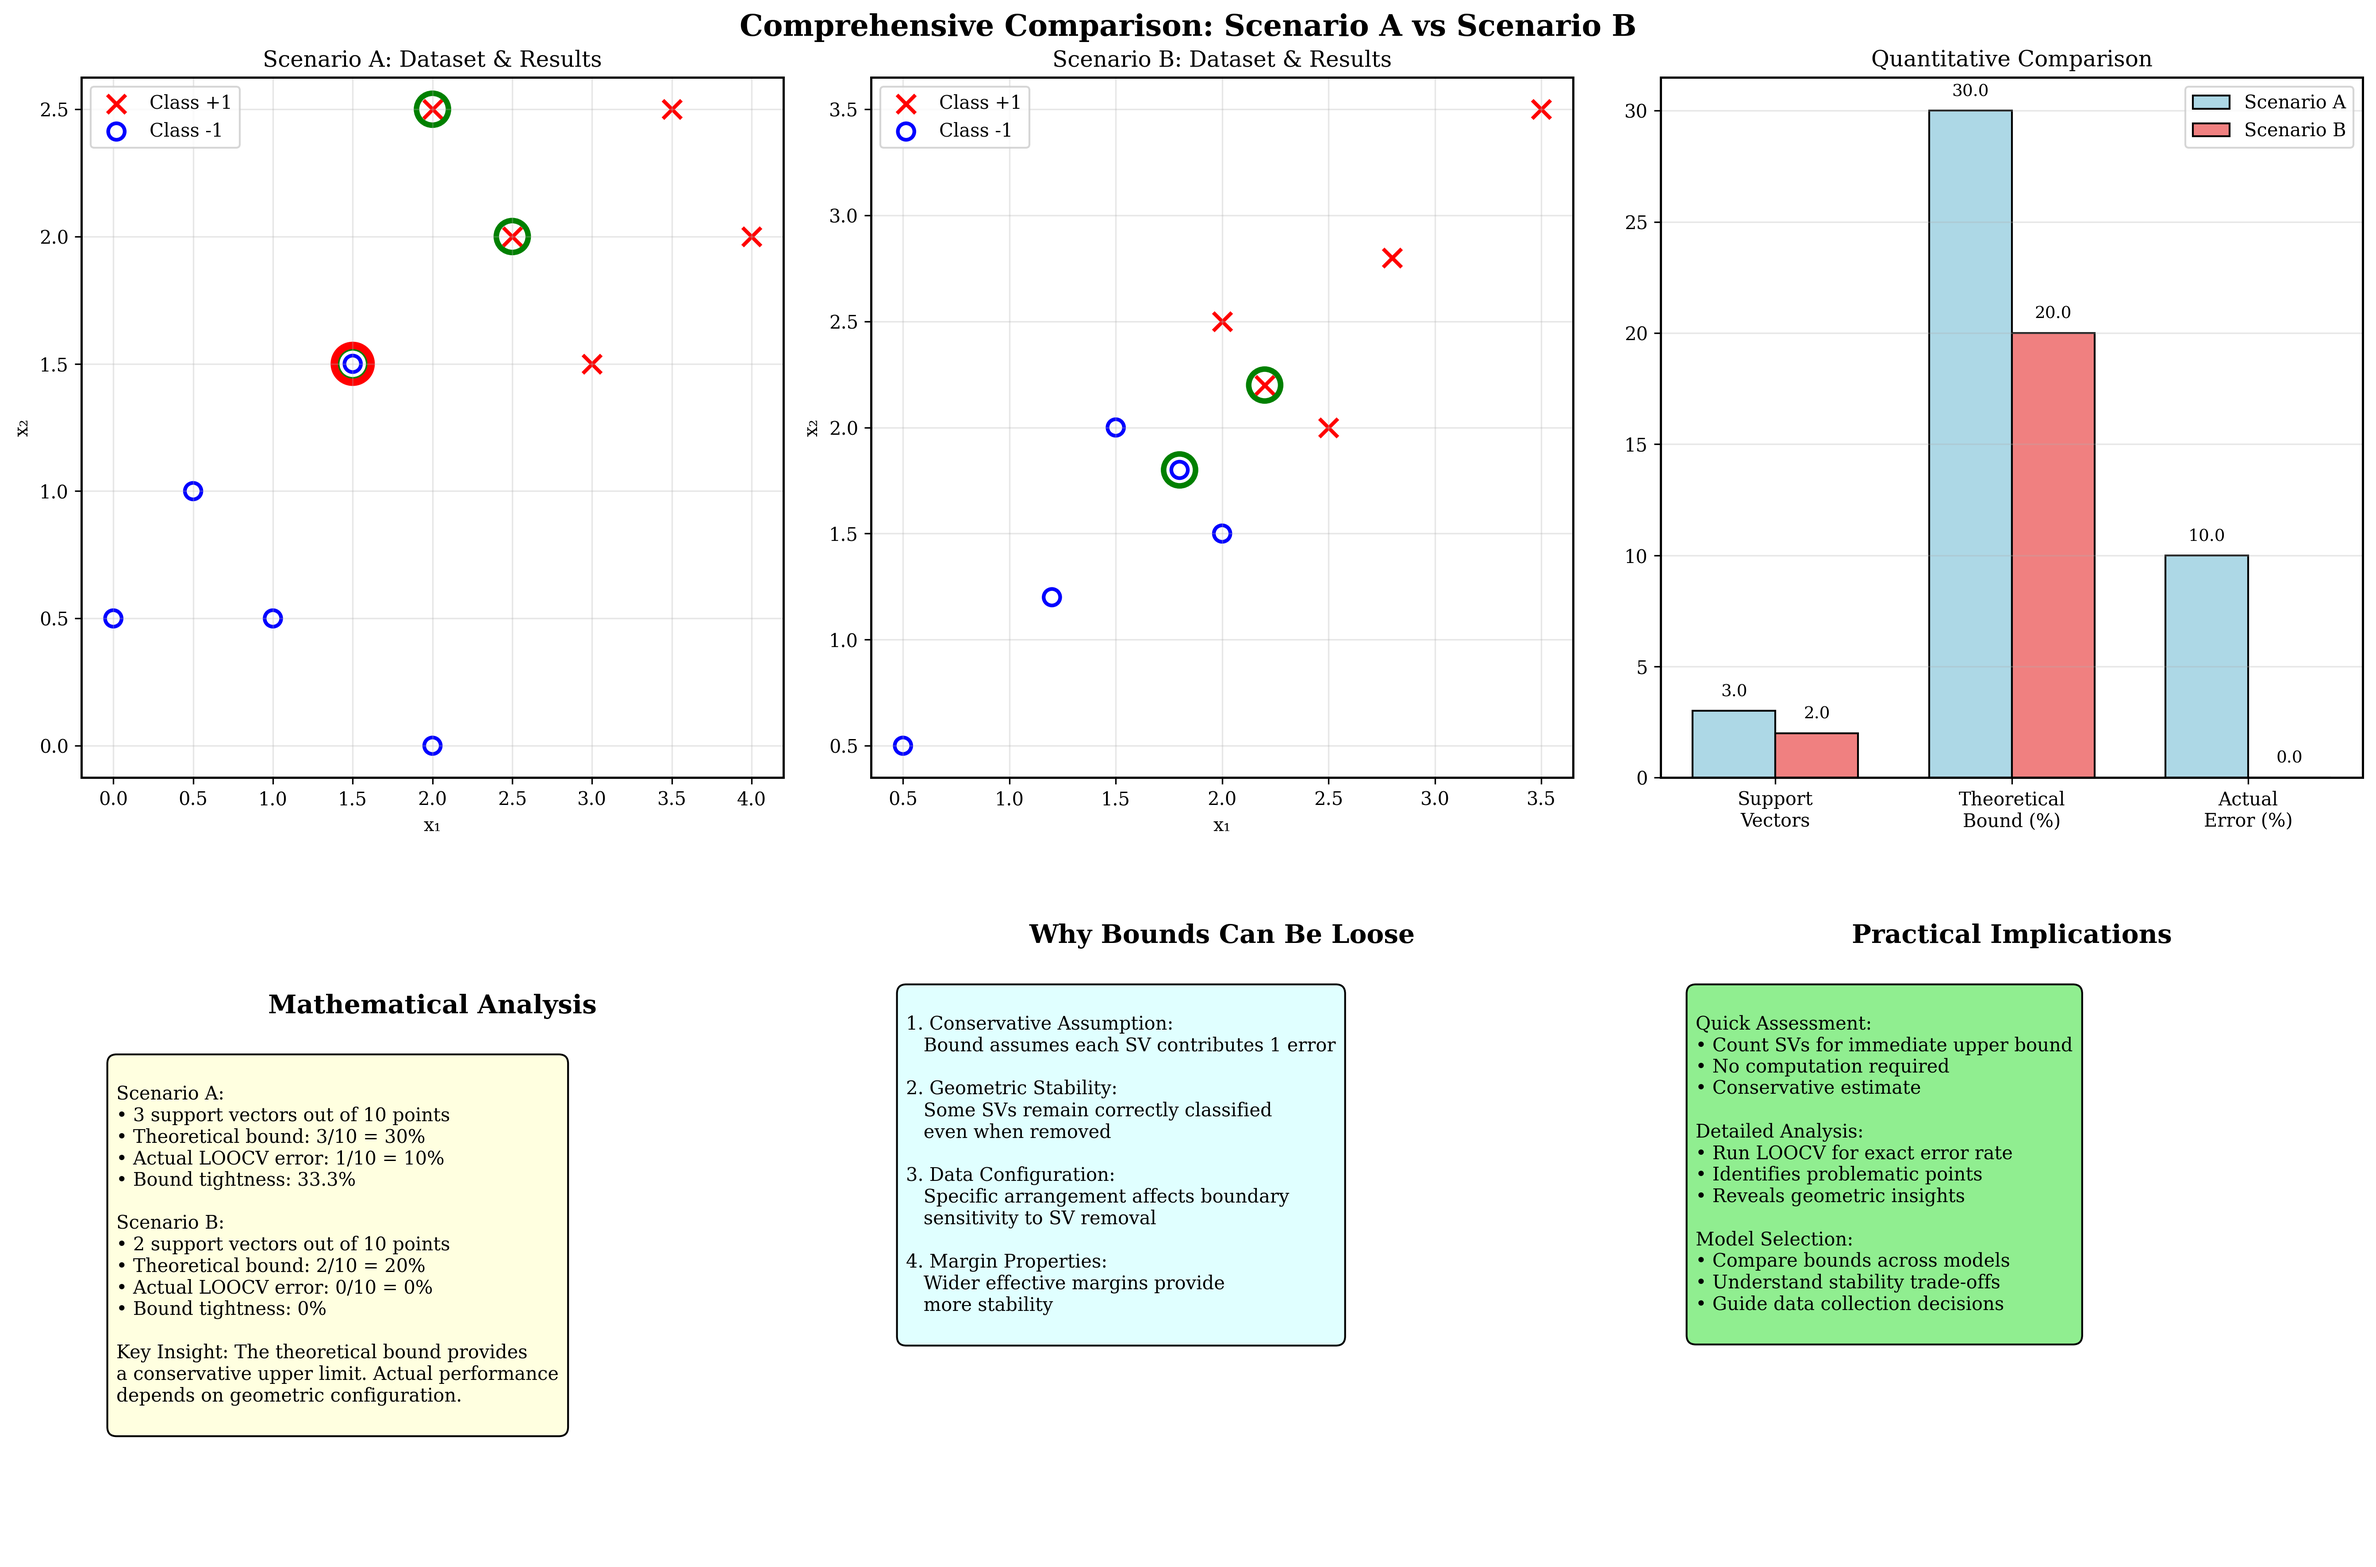
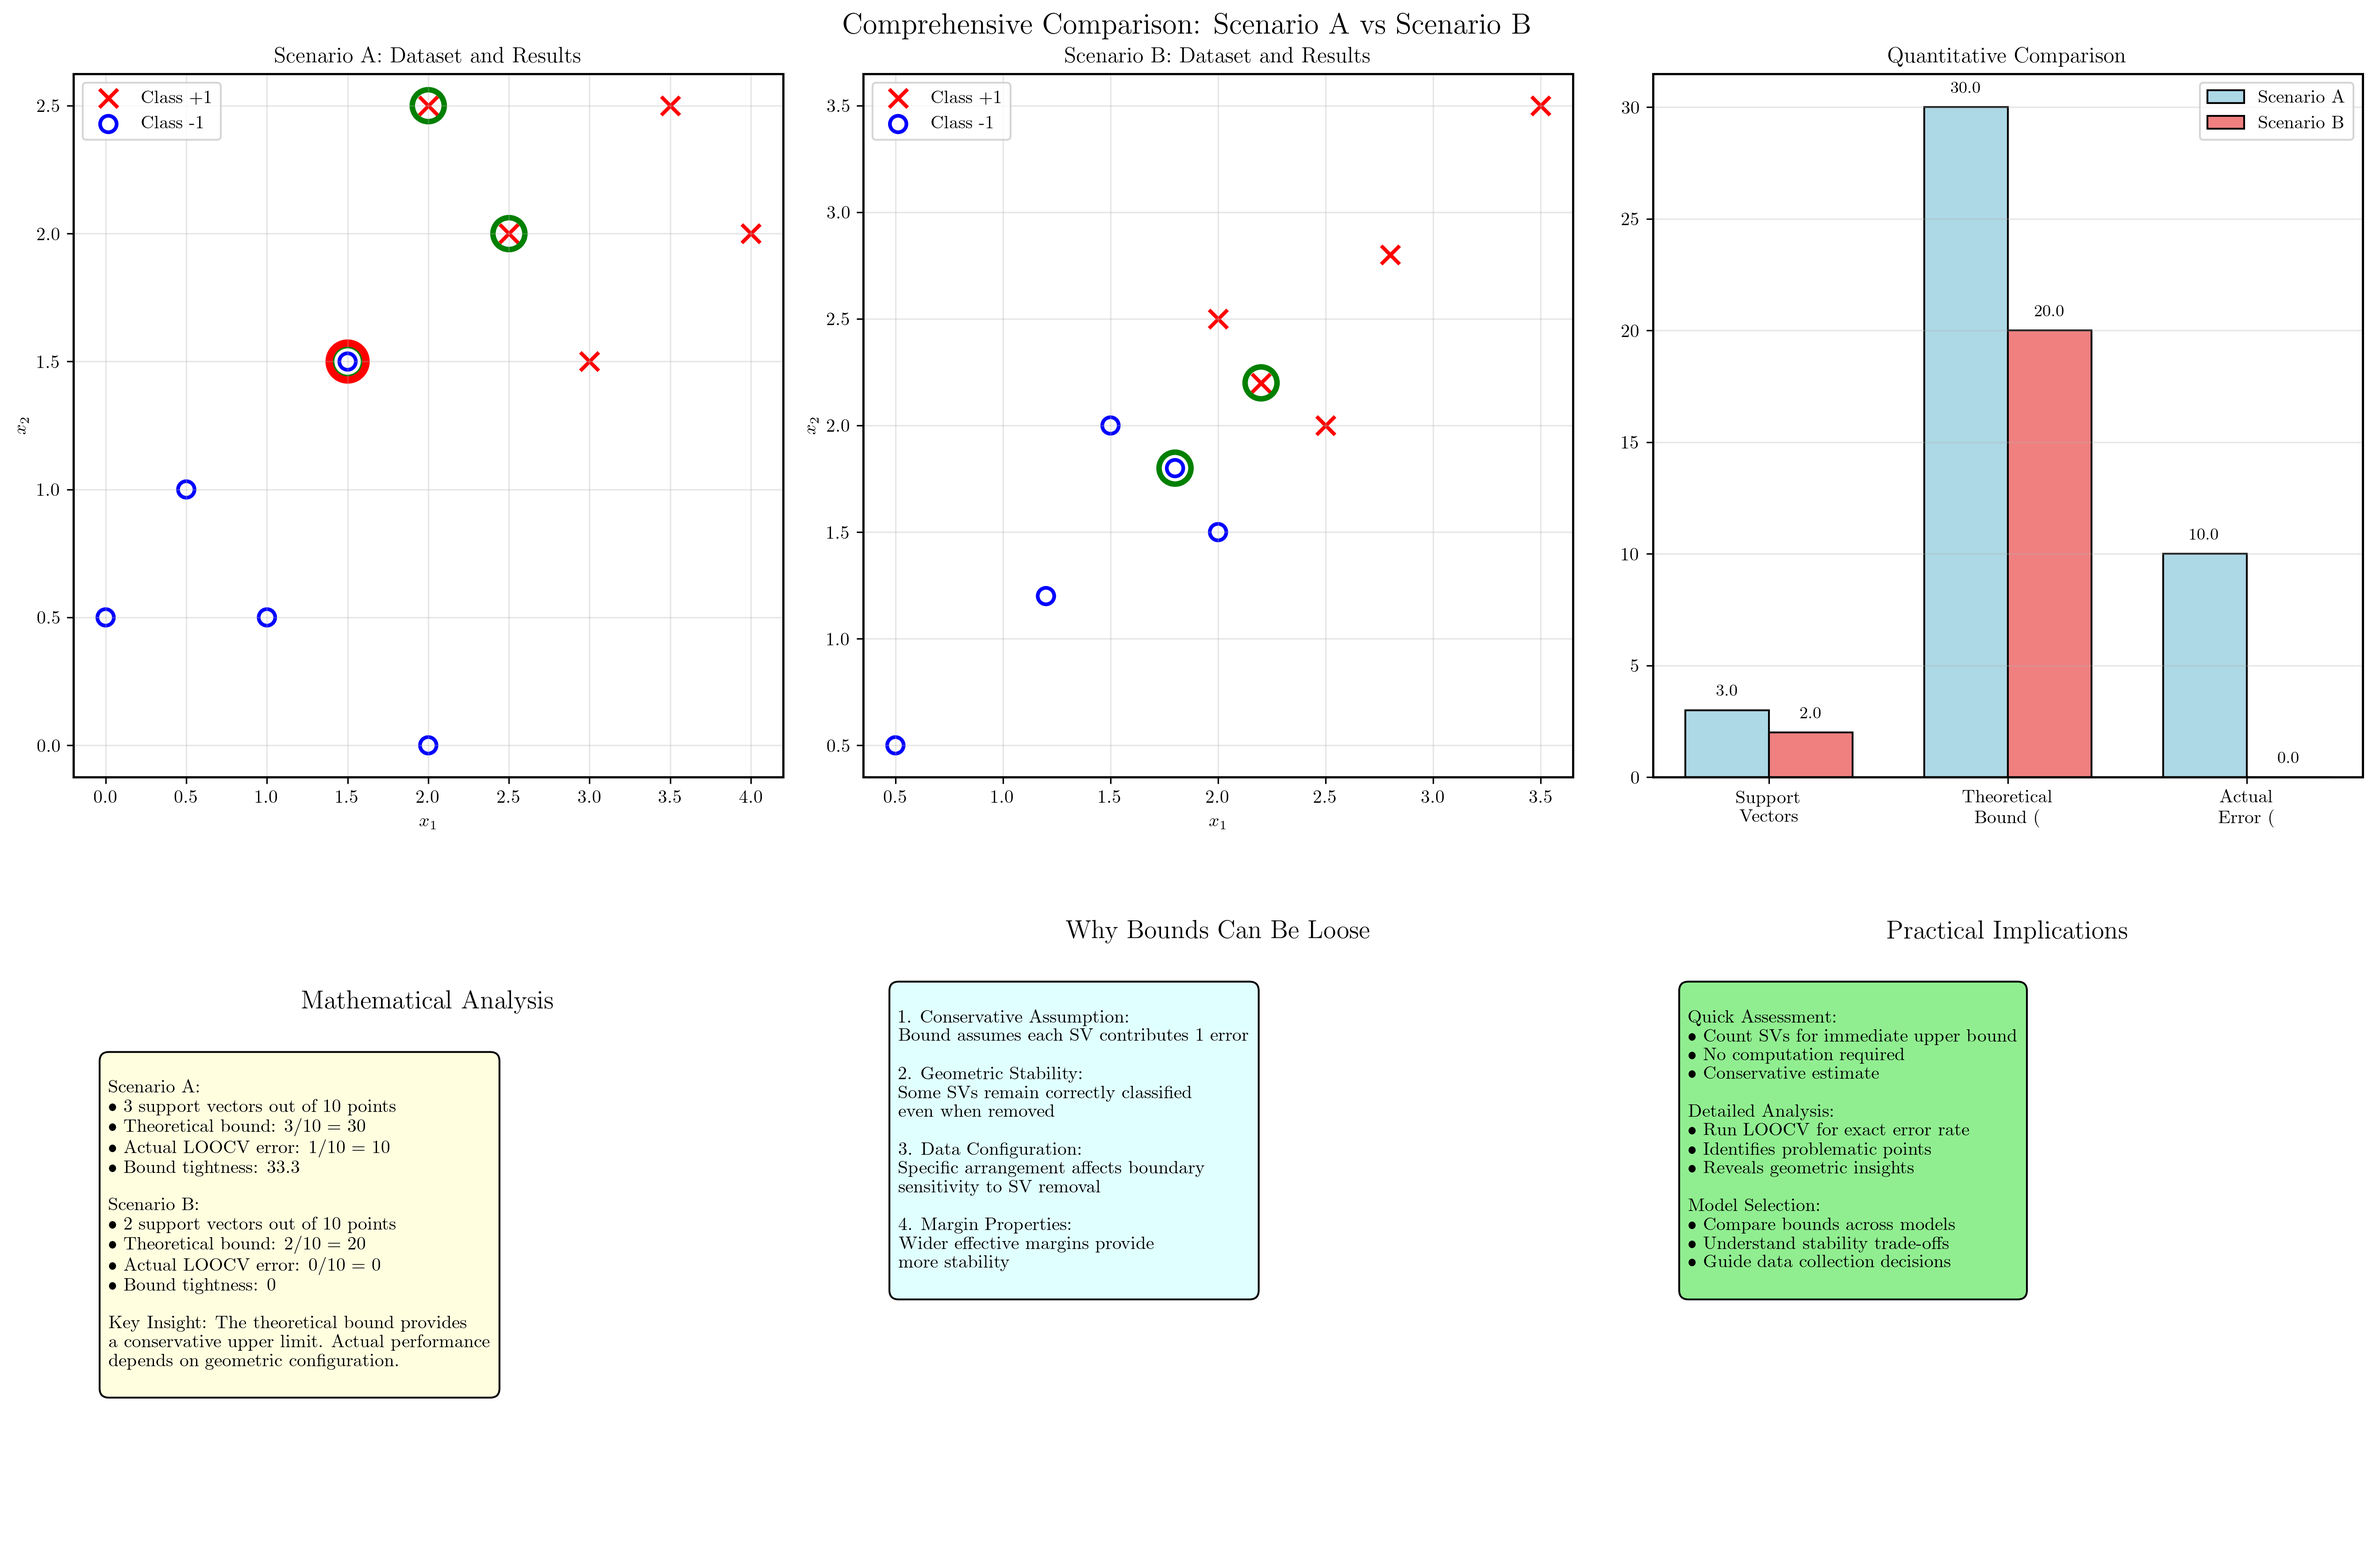
fix

diff --git a/ML_Obsidian_Vault/Lectures/5/Codes/L5_1_24_solution.py b/ML_Obsidian_Vault/Lectures/5/Codes/L5_1_24_solution.py
@@ -265,7 +265,7 @@ def perform_detailed_loocv_analysis(X, y, svm_full, sv_indices, scenario_letter)
 
     # Verify this matches question code results
     print(f"\nVerification: This should match the question code output:")
-    print(f"Expected from question: Scenario {scenario_letter} → {loocv_error_rate*100:.1f}% actual LOOCV error")
+    print(f"Expected from question: Scenario {scenario_letter} -> {loocv_error_rate*100:.1f}% actual LOOCV error")
 
     return results, loocv_error_rate, misclassified_count
 
@@ -428,9 +428,9 @@ def create_comparison_visualization(results_a, results_b, sv_indices_a, sv_indic
             ax1.scatter(r['coordinates'][0], r['coordinates'][1], s=400,
                        facecolors='none', edgecolors='red', linewidth=4)
 
-    ax1.set_title('Scenario A: Dataset & Results')
-    ax1.set_xlabel('x₁')
-    ax1.set_ylabel('x₂')
+    ax1.set_title('Scenario A: Dataset and Results')
+    ax1.set_xlabel(r'$x_1$')
+    ax1.set_ylabel(r'$x_2$')
     ax1.legend()
     ax1.grid(True, alpha=0.3)
 
@@ -453,9 +453,9 @@ def create_comparison_visualization(results_a, results_b, sv_indices_a, sv_indic
             ax2.scatter(r['coordinates'][0], r['coordinates'][1], s=400,
                        facecolors='none', edgecolors='red', linewidth=4)
 
-    ax2.set_title('Scenario B: Dataset & Results')
-    ax2.set_xlabel('x₁')
-    ax2.set_ylabel('x₂')
+    ax2.set_title('Scenario B: Dataset and Results')
+    ax2.set_xlabel(r'$x_1$')
+    ax2.set_ylabel(r'$x_2$')
     ax2.legend()
     ax2.grid(True, alpha=0.3)
 
@@ -630,8 +630,8 @@ def provide_complete_solution_summary(results_a, results_b, sv_indices_a, sv_ind
     print(f"    • Geometric configuration provides exceptional stability")
 
     print(f"\nComparison between Scenario A and B:")
-    print(f"    Scenario A: {len(sv_indices_a)} SVs → {theoretical_bound_a:.1%} bound → {actual_error_a:.1%} actual")
-    print(f"    Scenario B: {len(sv_indices_b)} SVs → {theoretical_bound_b:.1%} bound → {actual_error_b:.1%} actual")
+    print(f"    Scenario A: {len(sv_indices_a)} SVs -> {theoretical_bound_a:.1%} bound -> {actual_error_a:.1%} actual")
+    print(f"    Scenario B: {len(sv_indices_b)} SVs -> {theoretical_bound_b:.1%} bound -> {actual_error_b:.1%} actual")
     print(f"    Key differences:")
     print(f"    • A has more support vectors ({len(sv_indices_a)} vs {len(sv_indices_b)})")
     print(f"    • A has higher actual error ({actual_error_a:.1%} vs {actual_error_b:.1%})")
@@ -683,8 +683,8 @@ def verify_consistency_with_question_code():
     expected_loocv_b, expected_sv_count_b = perform_loocv_analysis(X_b, y_b, "Scenario B")
 
     print(f"\nExpected Results from Question Code:")
-    print(f"Scenario A: {expected_sv_count_a} SVs → {expected_loocv_a:.1%} LOOCV error")
-    print(f"Scenario B: {expected_sv_count_b} SVs → {expected_loocv_b:.1%} LOOCV error")
+    print(f"Scenario A: {expected_sv_count_a} SVs -> {expected_loocv_a:.1%} LOOCV error")
+    print(f"Scenario B: {expected_sv_count_b} SVs -> {expected_loocv_b:.1%} LOOCV error")
 
     return expected_loocv_a, expected_sv_count_a, expected_loocv_b, expected_sv_count_b
 
@@ -720,8 +720,8 @@ if __name__ == "__main__":
 
     # Verify consistency
     print(f"\nConsistency Check with Question Code:")
-    print(f"Expected: {expected_sv_count_a} SVs → {expected_loocv_a:.1%} error")
-    print(f"Computed: {len(sv_indices_a)} SVs → {actual_error_a:.1%} error")
+    print(f"Expected: {expected_sv_count_a} SVs -> {expected_loocv_a:.1%} error")
+    print(f"Computed: {len(sv_indices_a)} SVs -> {actual_error_a:.1%} error")
     if abs(expected_loocv_a - actual_error_a) < 1e-10 and expected_sv_count_a == len(sv_indices_a):
         print("Perfect match with question code!")
     else:
@@ -742,8 +742,8 @@ if __name__ == "__main__":
 
     # Verify consistency
     print(f"\nConsistency Check with Question Code:")
-    print(f"Expected: {expected_sv_count_b} SVs → {expected_loocv_b:.1%} error")
-    print(f"Computed: {len(sv_indices_b)} SVs → {actual_error_b:.1%} error")
+    print(f"Expected: {expected_sv_count_b} SVs -> {expected_loocv_b:.1%} error")
+    print(f"Computed: {len(sv_indices_b)} SVs -> {actual_error_b:.1%} error")
     if abs(expected_loocv_b - actual_error_b) < 1e-10 and expected_sv_count_b == len(sv_indices_b):
         print("Perfect match with question code!")
     else:
@@ -768,8 +768,8 @@ if __name__ == "__main__":
     print(f"3. This gives immediate upper bound without computation")
 
     print(f"\nComputational Verification Results:")
-    print(f"Scenario A: {len(sv_indices_a)} SVs → {theoretical_bound_a:.1%} bound → {actual_error_a:.1%} actual")
-    print(f"Scenario B: {len(sv_indices_b)} SVs → {theoretical_bound_b:.1%} bound → {actual_error_b:.1%} actual")
+    print(f"Scenario A: {len(sv_indices_a)} SVs -> {theoretical_bound_a:.1%} bound -> {actual_error_a:.1%} actual")
+    print(f"Scenario B: {len(sv_indices_b)} SVs -> {theoretical_bound_b:.1%} bound -> {actual_error_b:.1%} actual")
 
     print(f"\nKey Mathematical Insights:")
     print(f"• Theoretical bounds are conservative (worst-case estimates)")
